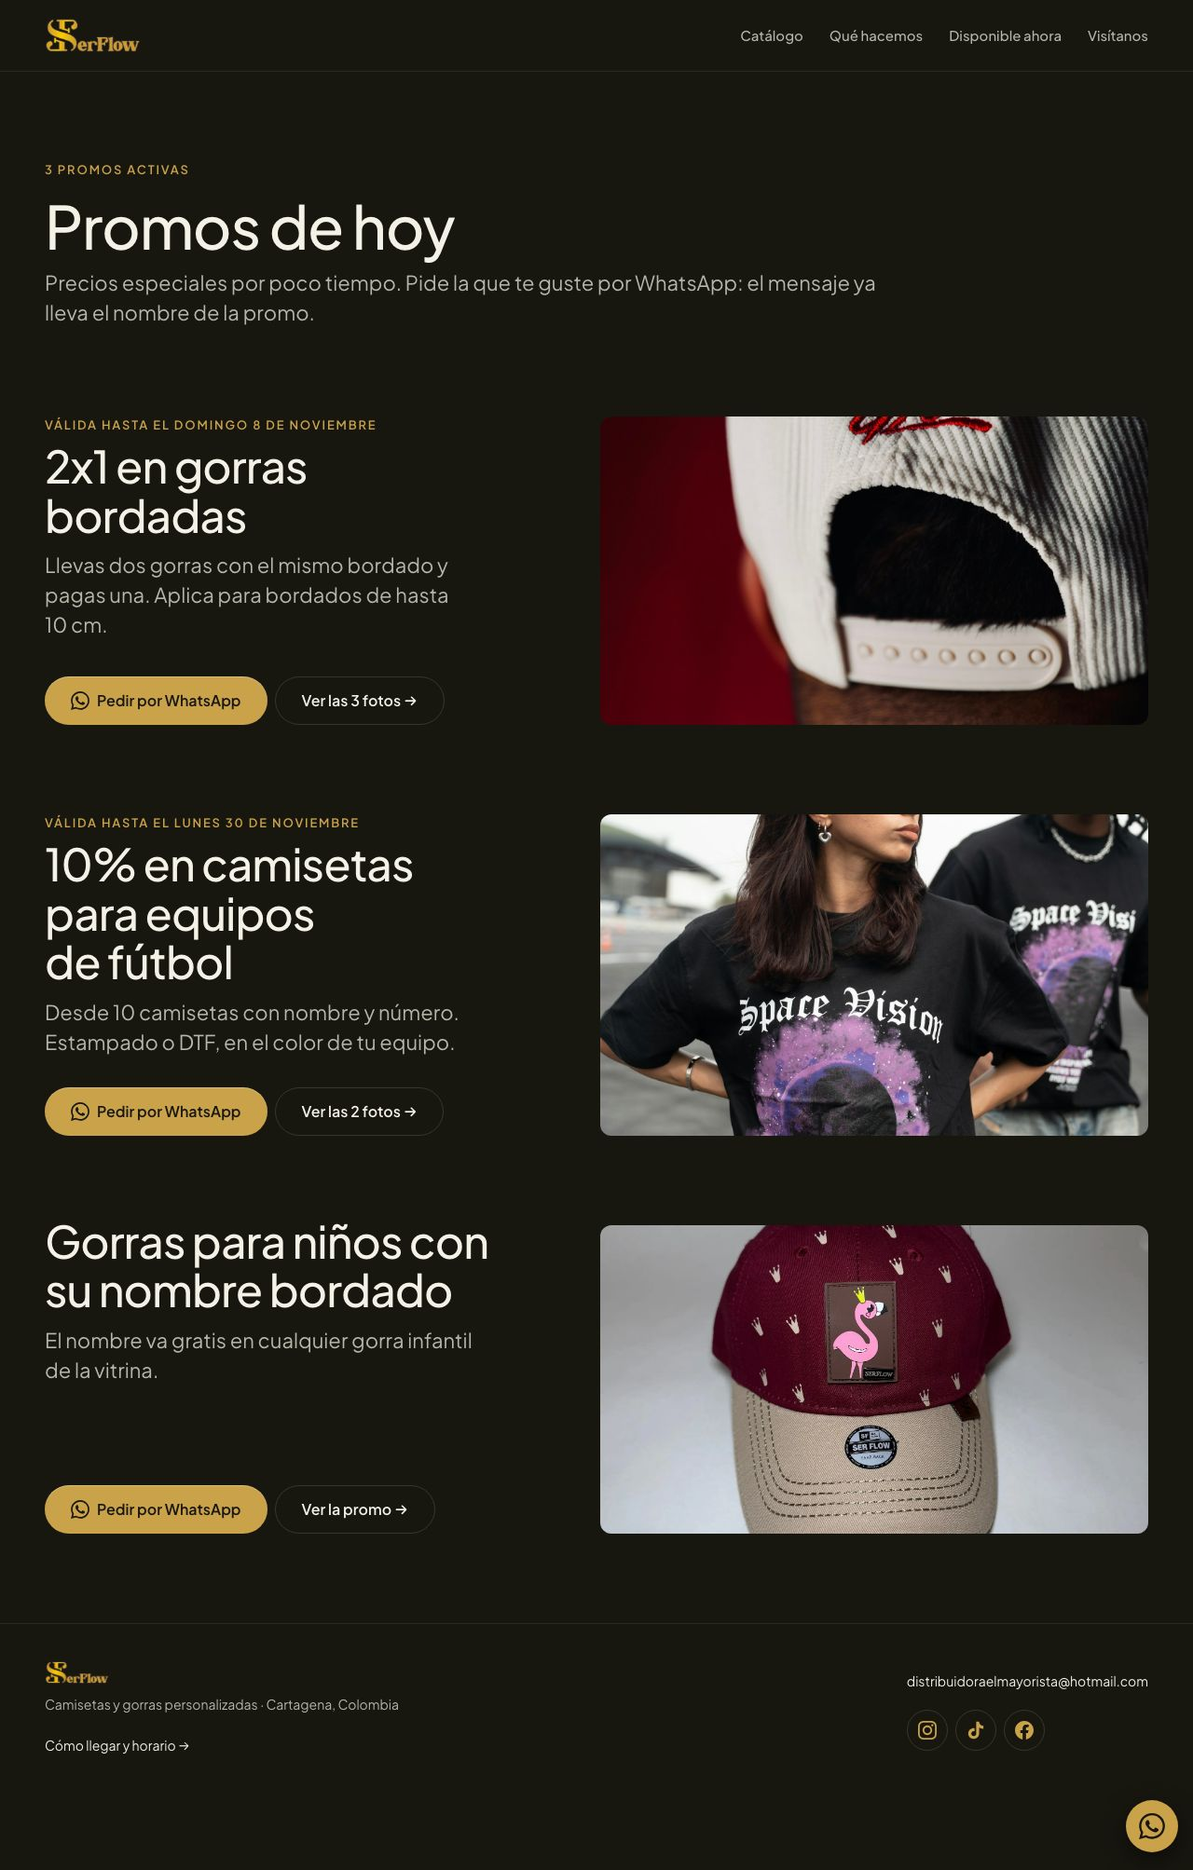
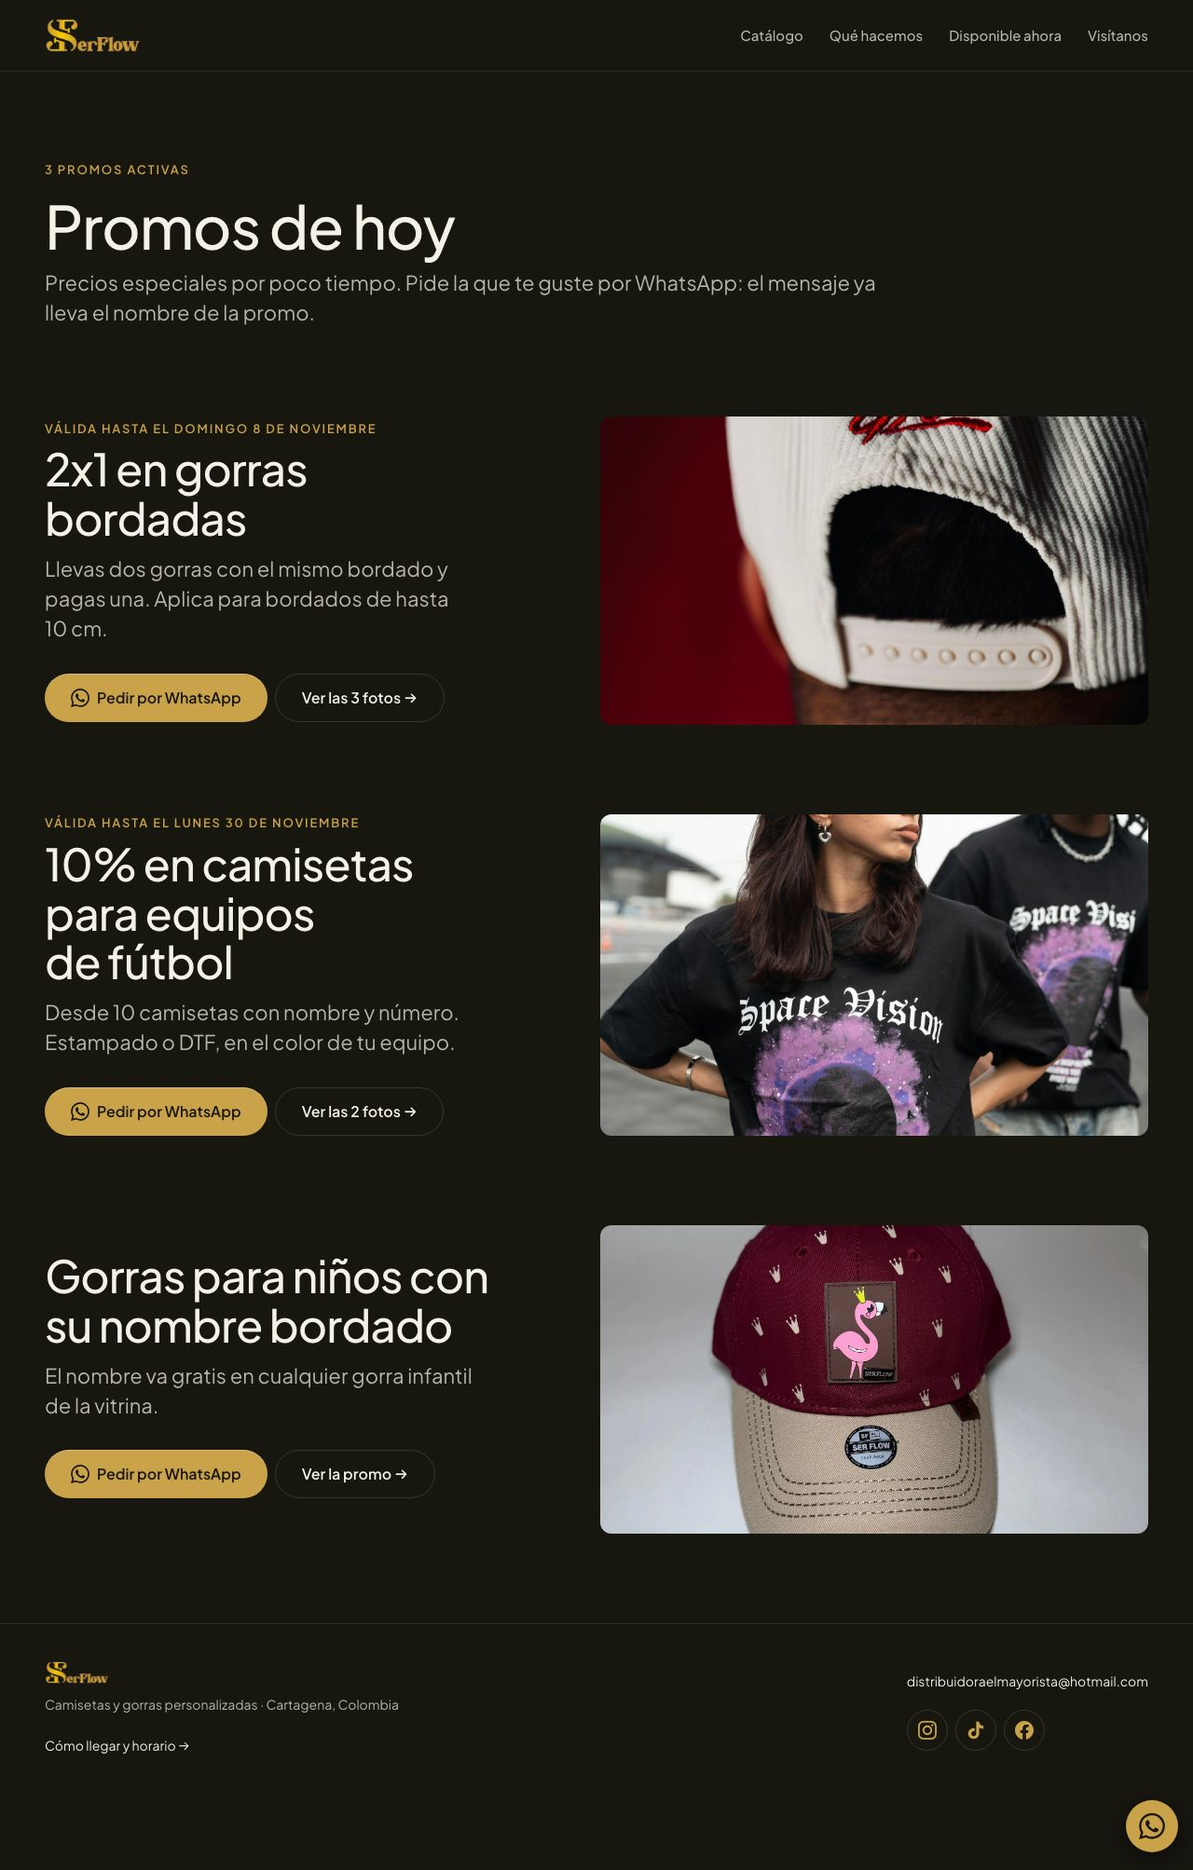
fix: PRI-286 viewer photo in a full-width band with the panel in one row below, one closing card component at every width, promo text centered on its photo, other promos titles on one line

diff --git a/tempo/designs/canvases/portada-final/pantallas.css b/tempo/designs/canvases/portada-final/pantallas.css
@@ -24,45 +24,55 @@
   .pf .pf-cat-texto > p { max-width: 34ch; }
 }
 
-/* Tarjeta de cierre: ocupa las celdas que faltan en la última fila; texto abajo a la izquierda, como el del hero.
-   Al construir: li:last-child con grid-column: span (columnas - n % columnas), con :nth-child por cada ancho. */
+/* Tarjeta de cierre: ocupa las celdas que faltan en la última fila (si está llena, una fila entera). Un solo
+   componente: mismo título, bajada y botón, y en cada ancho de pantalla las mismas medidas en 1, 2 o más celdas; solo
+   cambia el ancho de la caja. El bloque va centrado en vertical con el aire repartido arriba y abajo. Las medidas de
+   letra siguen al muro (contenedor "muro": 2 columnas en celular, 3 desde 40rem, 4 desde 64rem, los cortes del muro);
+   el ícono del botón sigue a la caja (contenedor "cierre").
+   Al construir: li:last-child con grid-column: span (columnas - n % columnas, o todas), con :nth-child por cada ancho. */
+.pf-cat-muro ul.columns-2 { container: muro / inline-size; }
 .pf-cierre { display: flex; }
 .pf-cierre > div {
-  container-type: inline-size;
+  container: cierre / inline-size;
   flex: 1;
   display: flex;
   flex-direction: column;
-  justify-content: flex-end;
+  justify-content: center;
   align-items: flex-start;
-  padding: 16px;
+  padding: var(--pf-td);
   border: 1px solid var(--color-line);
   border-radius: var(--radius-tile);
   background: var(--color-surface);
 }
 .pf .pf-cierre h2 { font-family: var(--font-display); font-weight: 500; font-size: var(--pf-h3); line-height: 1.15; letter-spacing: -0.02em; text-wrap: balance; }
-.pf .pf-cierre p { display: none; margin-top: var(--pf-td); font-size: var(--pf-body); line-height: 1.5; color: var(--color-muted); max-width: 34ch; }
-.pf .pf-cierre a { margin-top: 16px; padding-inline: 16px; }
-.pf .pf-cierre a svg { flex-shrink: 0; }
-/* En una sola celda: solo título y botón, y el botón dice "Escríbenos" (el resto queda para el lector de pantalla). */
-@container (max-width: 19.99rem) {
-  .pf .pf-cierre a { width: 100%; }
-  .pf-cierre-largo { position: absolute; width: 1px; height: 1px; overflow: hidden; clip-path: inset(50%); white-space: nowrap; }
+.pf .pf-cierre p { margin-top: var(--pf-g); font-size: 14px; line-height: 1.4; color: var(--color-muted); max-width: 34ch; text-wrap: pretty; }
+/* El botón (el de la marca: 16 semibold) nunca se sale de la caja: 12 a los lados y, si no cabe en una línea, parte
+   en dos ("Escríbenos por / WhatsApp"). El ícono va cuando el interior de la caja mide 15.75rem (252) o más (cabe el botón entero en una
+   línea). PUENTE: Button no deja partir el texto; al construir, una prop o variante para esto (Design System Debt). */
+.sf-r3 .pf .pf-cierre a.inline-flex.rounded-full.font-body { max-width: 100%; margin-top: var(--pf-td); padding: var(--pf-g) var(--pf-td); line-height: 1.2; text-align: center; text-wrap: balance; }
+.pf .pf-cierre a svg { display: none; flex-shrink: 0; }
+@container cierre (min-width: 15.75rem) {
+  .pf .pf-cierre a svg { display: block; }
 }
-/* Dos celdas o más: la bajada aparece y el título sube a la escala de h2 (48 / 34). */
-@container (min-width: 30rem) {
-  .pf-cierre > div { padding: 32px; }
-  .pf .pf-cierre h2 { font-size: var(--pf-h2); }
-  .pf .pf-cierre p { display: block; max-width: 44ch; }
-  .pf .pf-cierre a { margin-top: 24px; padding-inline: 24px; }
+@container muro (min-width: 40rem) {
+  .pf-cierre > div { padding: 16px; }
+  .pf .pf-cierre p { margin-top: var(--pf-td); font-size: var(--pf-body); line-height: 1.5; }
+  .sf-r3 .pf .pf-cierre a.inline-flex.rounded-full.font-body { margin-top: var(--pf-tc); }
+}
+/* Desktop: el título con la escala de h2 (48) para que la caja de una celda se vea llena. */
+@container muro (min-width: 64rem) {
+  .pf .pf-cierre h2 { font-size: var(--pf-h2); line-height: 1.05; }
 }
 
-/* ---------- 2. Visor: Todas las fotos en su fila; foto en 6 columnas y panel en 5 desde la 8, pegado al borde de abajo ---------- */
+/* ---------- 2. Visor: Todas las fotos en su fila; en desktop la foto en una banda a todo el ancho y el panel en una fila debajo ---------- */
 
 .pf-visor-volver { display: inline-flex; min-height: 48px; align-items: center; gap: 6px; margin-left: -6px; font-size: 14px; font-weight: 600; color: var(--color-muted); }
 .pf-visor-volver:hover { color: var(--color-ink); }
 .pf-visor-volver:focus-visible, .pf-visor-cat:focus-visible { outline: 2px solid var(--color-accent); outline-offset: 2px; }
 /* En el celular la foto va a sangre (4:5) debajo de Todas las fotos; el panel, en el margen. */
 .pf-visor-panel { display: flex; flex-direction: column; align-items: flex-start; padding: var(--pf-tc) var(--pf-m) 0; }
+.pf-visor-nombre { display: flex; flex-direction: column; align-items: flex-start; }
+.pf-visor-pedir { width: 100%; }
 /* La categoría con la etiqueta del sistema (13 mayúsculas, oro), como link: el nombre ya la dice, no hace falta otro botón. */
 .pf-visor-cat { display: inline-flex; min-height: 44px; align-items: center; margin-top: -14px; }
 .pf-visor-cat:hover { text-decoration: underline; text-underline-offset: 4px; }
@@ -70,15 +80,33 @@
 .pf .pf-visor-nota { margin-top: 12px; font-size: var(--pf-body); line-height: 1.5; color: var(--color-muted); max-width: 40ch; text-wrap: balance; }
 .pf-mas-accion { margin-top: var(--pf-tc); }
 @container pf (min-width: 48rem) {
-  .pf-visor { display: grid; grid-template-columns: repeat(12, minmax(0, 1fr)); column-gap: var(--pf-g); padding: 0 var(--pf-m); }
-  .pf-visor-foto { grid-column: 1 / span 6; }
-  /* 1:1 en desktop (como Qué hacemos): la gorra sigue entera y Pedir por WhatsApp queda arriba del pliegue de 800. */
-  .pf .pf-visor-foto ul { border-radius: var(--radius-tile); }
+  .pf-visor { padding: 0 var(--pf-m); }
+  /* La foto en una banda de 16:7 a todo el ancho de la rejilla (1184 x 518): la foto va al centro en 1:1 (como Qué
+     hacemos, la gorra entera) y a los lados se estira su propia columna de borde (--foto), así el fondo de estudio
+     sigue de lado a lado. Con 518 de alto, Pedir por WhatsApp queda arriba del pliegue de 800. */
+  .pf-visor-foto { position: relative; overflow: hidden; aspect-ratio: 16 / 7; border-radius: var(--radius-tile); background: var(--color-surface-2); }
+  /* Los lados se difuminan y la foto se funde con ellos en el 22 % de cada borde: no se ve la costura. */
+  .pf-visor-foto::before, .pf-visor-foto::after {
+    content: "";
+    position: absolute;
+    inset-block: -32px;
+    width: calc(38% + 32px);
+    background: var(--foto) no-repeat;
+    background-size: 40000% calc((100% - 64px) * 1.3334);
+    filter: blur(24px);
+  }
+  .pf-visor-foto::before { left: -32px; background-position: left center; }
+  .pf-visor-foto::after { right: -32px; background-position: right center; }
+  .pf .pf-visor-foto ul { position: relative; z-index: 1; width: 43.75%; margin-inline: auto; border-radius: 0; mask-image: linear-gradient(to right, transparent, black 22%, black 78%, transparent); }
   .pf .pf-visor-foto li { aspect-ratio: 1 / 1; }
-  /* Una foto: el panel se compacta y se pega al borde de abajo de la foto, como el texto del hero sobre la suya. */
-  .pf-visor-panel { grid-column: 8 / -1; justify-content: flex-end; padding: 0; }
-  .pf-visor-boton { width: auto; }
+  /* El panel en una fila de la rejilla debajo de la foto: categoría y nombre en 7 columnas, el botón y su nota en 5
+     desde la 8. Las dos columnas tienen el mismo alto y cierran juntas abajo: no queda caja vacía. */
+  .pf-visor-panel { display: grid; grid-template-columns: repeat(12, minmax(0, 1fr)); column-gap: var(--pf-g); align-items: end; padding: var(--pf-tc) 0 0; }
+  .pf-visor-nombre { grid-column: 1 / span 7; }
+  .pf-visor-pedir { grid-column: 8 / -1; }
+  .pf-visor-boton { width: auto; margin-top: 0; }
   .pf .pf-visor-nota { text-box: trim-end cap alphabetic; }
+  .pf .pf-visor-nombre h1 { text-box: trim-end alphabetic; }
 }
 
 /* ---------- Título de página interior (promos, 404, personalizador): el aire de una sección arriba ---------- */
@@ -102,9 +130,9 @@
 .pf-promo-foto { order: -1; position: relative; overflow: hidden; aspect-ratio: 4 / 3; margin-bottom: var(--pf-tc); border-radius: var(--radius-tile); background: var(--color-surface-2); }
 .pf-promo-foto img { position: absolute; inset: 0; width: 100%; height: 100%; object-fit: cover; }
 @container pf (min-width: 48rem) {
-  /* Fotos parejas de 16:9 (588 x 331) en las tres promos; si el texto es más alto, la foto crece con él. Mismo borde
-     arriba y abajo: el texto arriba y los botones pegados al borde de abajo de la foto. */
-  .pf-promo-texto { grid-column: 1 / span 5; grid-row: 1; justify-content: space-between; }
+  /* Fotos parejas de 16:9 (588 x 331) en las tres promos; si el texto es más alto, la foto crece con él. Los botones
+     van pegados a la bajada (32, el mismo aire en las tres) y el bloque de texto se centra en vertical con la foto. */
+  .pf-promo-texto { grid-column: 1 / span 5; grid-row: 1; justify-content: center; }
   .pf-promo-foto { order: 0; grid-column: 7 / -1; grid-row: 1; aspect-ratio: auto; min-height: 331px; margin: 0; }
   .pf-promo-botones { flex-direction: row; }
 }
@@ -138,16 +166,21 @@
 .sf-r3 .pf .pf-promo-tarjetas a > div > div.flex-1.p-4:last-child { padding: 0; gap: 0; justify-content: flex-start; }
 /* En el celular, sin la descripción: cortada a dos líneas quedaba a medio decir y más alta que la miniatura. */
 .sf-r3 .pf .pf-promo-tarjetas p { display: none; }
-.pf .pf-promo-tarjetas a > div > div:last-child > span:first-child { padding: 0; background: none; font-size: var(--pf-pie); font-weight: 600; letter-spacing: 0.14em; text-transform: uppercase; color: var(--color-accent); }
+/* La vigencia en una línea de alto fijo (16) y 8 hasta el título. Si la promo no tiene fecha, el título baja esos
+   mismos 24: los títulos de todas las tarjetas quedan en la misma línea. Al construir: PromoCard reserva la línea de
+   vigencia vacía (min-height) en vez de este margen. */
+.pf .pf-promo-tarjetas a > div > div:last-child > span:first-child { display: block; padding: 0; background: none; font-size: var(--pf-pie); font-weight: 600; line-height: 16px; letter-spacing: 0.14em; text-transform: uppercase; color: var(--color-accent); }
 .pf .pf-promo-tarjetas a > div > div:last-child > span:first-child > span { display: none; }
 .sf-r3 .pf .pf-promo-tarjetas h3 { margin-top: 8px; font-size: var(--pf-h3); font-weight: 500; line-height: 1.25; }
-.pf-promo-tarjetas a > div > div:last-child > span:first-child + h3 { margin-top: 8px; }
+.sf-r3 .pf .pf-promo-tarjetas a.group.rounded-card div.flex-1 > h3.font-display:first-child { margin-top: 24px; }
 .sf-r3 .pf .pf-promo-tarjetas p { margin-top: 6px; font-size: var(--pf-body); line-height: 1.5; color: var(--color-muted); }
-.sf-r3 .pf .pf-promo-tarjetas a > div > div:last-child > span:last-child { margin-top: 8px; padding: 0; }
+/* Ver promo al fondo de la tarjeta: en una fila todas cierran a la misma altura aunque la bajada sea más corta. */
+.sf-r3 .pf .pf-promo-tarjetas a > div > div:last-child > span:last-child { margin-top: auto; padding: 8px 0 0; }
 @container pf (min-width: 48rem) {
   .pf-promo-tarjetas { grid-template-columns: repeat(var(--n), minmax(0, 1fr)); gap: var(--pf-g); }
   .sf-r3 .pf .pf-promo-tarjetas a > div { display: flex; flex-direction: column; }
   .sf-r3 .pf .pf-promo-tarjetas a img { aspect-ratio: 4 / 3; }
-  .sf-r3 .pf .pf-promo-tarjetas p { display: block; max-width: 52ch; }
+  /* 44ch: entre la bajada de una tarjeta y la de la siguiente queda aire, no solo la calle de 8. */
+  .sf-r3 .pf .pf-promo-tarjetas p { display: block; max-width: 44ch; }
   .sf-r3 .pf .pf-promo-tarjetas a > div > div.flex-1.p-4:last-child { padding: 16px 0 0; }
 }

diff --git a/tempo/designs/canvases/portada-final/Pantallas.tsx b/tempo/designs/canvases/portada-final/Pantallas.tsx
@@ -62,9 +62,10 @@ const CATEGORIAS = {
 /* ---------- 1. Catálogo, categoría ---------- */
 
 /**
- * PROPUESTA: la tarjeta que cierra la última fila del muro. Solo texto y botón, sin foto; ocupa todas las celdas que
- * faltan. Al construir es el último <li> de la lista de Masonry en CatalogPage y su ancho sale de :nth-child (ver
- * pantallas.css); aquí se calcula con el ancho del frame y se agrega con un portal para no tocar src/.
+ * PROPUESTA: la tarjeta que cierra la última fila del muro. Un solo componente con el mismo texto en todos los anchos
+ * (título, bajada y botón); solo cambia cuántas celdas ocupa: las que faltan en la última fila. Al construir es el
+ * último <li> de la lista de Masonry en CatalogPage y su ancho sale de :nth-child (ver pantallas.css); aquí se mide
+ * con las columnas reales del muro y se agrega con un portal para no tocar src/.
  */
 function Cierre({ faltan }: { faltan: number }) {
   return (
@@ -73,19 +74,29 @@ function Cierre({ faltan }: { faltan: number }) {
         <h2>¿No ves la que buscas?</h2>
         <p>Igual te lo hacemos por encargo, con tu logo o tu diseño.</p>
         <Button variant="whatsapp" href={WHATSAPP_URL} external>
-          <span>
-            Escríbenos<span className="pf-cierre-largo"> por WhatsApp</span>
-          </span>
+          Escríbenos por WhatsApp
         </Button>
       </div>
     </li>
   );
 }
 
-function ConCierre({ faltan, children }: { faltan: number; children: ReactNode }) {
+function ConCierre({ fotos, children }: { fotos: number; children: ReactNode }) {
   const caja = useRef<HTMLDivElement>(null);
-  const [muro, setMuro] = useState<Element | null>(null);
-  useLayoutEffect(() => setMuro(caja.current?.querySelector("ul.columns-2") ?? null), []);
+  const [muro, setMuro] = useState<HTMLElement | null>(null);
+  const [columnas, setColumnas] = useState(0);
+  useLayoutEffect(() => {
+    const ul = caja.current?.querySelector<HTMLElement>("ul.columns-2");
+    if (!ul) return;
+    setMuro(ul);
+    const medir = () => setColumnas(getComputedStyle(ul).gridTemplateColumns.split(" ").length);
+    medir();
+    const ro = new ResizeObserver(medir);
+    ro.observe(ul);
+    return () => ro.disconnect();
+  }, []);
+  // Si la última fila está llena, la tarjeta ocupa una fila entera: pedir por encargo está en todas las categorías.
+  const faltan = columnas ? (columnas - (fotos % columnas)) % columnas || columnas : 0;
   return (
     <div ref={caja}>
       {children}
@@ -96,8 +107,6 @@ function ConCierre({ faltan, children }: { faltan: number; children: ReactNode }
 
 export function Catalogo({ width, cat }: { width: W; cat: keyof typeof CATEGORIAS }) {
   const c = CATEGORIAS[cat];
-  const columnas = width === 1280 ? 4 : 2;
-  const faltan = (columnas - (c.tiles.length % columnas)) % columnas;
   return (
     <Marco width={width} nuevo current="/products">
       <div className="pf font-body text-ink">
@@ -115,7 +124,7 @@ export function Catalogo({ width, cat }: { width: W; cat: keyof typeof CATEGORIA
             <CategoryNav categories={CHIPS} current={`/products/${c.slug}`} />
           </div>
           <div className="pf-c pf-cat-muro">
-            <ConCierre faltan={faltan}>
+            <ConCierre fotos={c.tiles.length}>
               <Masonry tiles={c.tiles} />
             </ConCierre>
           </div>
@@ -129,12 +138,11 @@ export function Catalogo({ width, cat }: { width: W; cat: keyof typeof CATEGORIA
 
 /*
  * Hoy ningún producto activo tiene más de una foto (Supabase, 2026-11-02: 0 de 92), así que no hay "Otras vistas":
- * PhotoThumbs no se pinta con una foto. El panel lleva lo que hay en master: la categoría (como etiqueta-link, no como
- * segundo botón), el nombre, Pedir por WhatsApp y su nota. Sin N.º ni "hace", sin Nuevo.
+ * PhotoThumbs no se pinta con una foto y el visor es un solo frame. El panel lleva lo que hay en master: la categoría
+ * (como etiqueta-link, no como segundo botón), el nombre, Pedir por WhatsApp y su nota. Sin N.º ni "hace", sin Nuevo.
  */
 const PRODUCTOS = {
   beisbol: { nombre: "Beisbol #49", cat: CATEGORIAS.beisbol, count: 23 },
-  ninos: { nombre: "Niños #91", cat: { label: "Niños", slug: "kids", tiles: tiles("Niños", "kids", fotos(import.meta.glob<string>("../../../../src/assets/images/kids/*.webp", { eager: true, import: "default" })), 91) }, count: 10 },
 };
 
 export function Visor({ width, producto }: { width: W; producto: keyof typeof PRODUCTOS }) {
@@ -163,20 +171,26 @@ export function Visor({ width, producto }: { width: W; producto: keyof typeof PR
         <main className="pf-v">
           <div className="pf-c">{volver}</div>
           <div className="pf-visor">
-            <div className="pf-visor-foto">
+            {/* PROPUESTA (desktop): la foto en una banda a todo el ancho; los lados repiten el borde de la misma foto
+                (--foto), así el fondo de estudio sigue de lado a lado sin recortar la gorra. */}
+            <div className="pf-visor-foto" style={{ "--foto": `url("${foto.img.src}")` } as React.CSSProperties}>
               <PhotoCarousel photos={[{ src: foto.img.src, alt: foto.img.alt }]} label={`Fotos de ${p.nombre}`} />
             </div>
             <div className="pf-visor-panel">
-              <a href={href} className="pf-pie pf-visor-cat">
-                {p.cat.label}
-              </a>
-              <h1 className="pf-display">{p.nombre}</h1>
-              <div className="pf-visor-boton">
-                <Button variant="whatsapp" href={WHATSAPP_URL} external fullWidth={!desktop}>
-                  Pedir por WhatsApp
-                </Button>
+              <div className="pf-visor-nombre">
+                <a href={href} className="pf-pie pf-visor-cat">
+                  {p.cat.label}
+                </a>
+                <h1 className="pf-display">{p.nombre}</h1>
               </div>
-              <p className="pf-visor-nota">Se abre WhatsApp con el link de esta foto. Te la hacemos igual o con tu logo.</p>
+              <div className="pf-visor-pedir">
+                <div className="pf-visor-boton">
+                  <Button variant="whatsapp" href={WHATSAPP_URL} external fullWidth={!desktop}>
+                    Pedir por WhatsApp
+                  </Button>
+                </div>
+                <p className="pf-visor-nota">Se abre WhatsApp con el link de esta foto. Te la hacemos igual o con tu logo.</p>
+              </div>
             </div>
           </div>
           <section id="mas-de" aria-labelledby="mas-de-titulo" className="pf-sec pf-c">
@@ -192,8 +206,6 @@ export function Visor({ width, producto }: { width: W; producto: keyof typeof PR
 
 export const VisorMobile = () => <Visor width={390} producto="beisbol" />;
 export const VisorDesktop = () => <Visor width={1280} producto="beisbol" />;
-export const VisorUnaFotoMobile = () => <Visor width={390} producto="ninos" />;
-export const VisorUnaFotoDesktop = () => <Visor width={1280} producto="ninos" />;
 
 /* ---------- 3. Promos: lista y detalle ---------- */
 

diff --git a/tempo/designs/canvases/portada-final/index.canvas.tsx b/tempo/designs/canvases/portada-final/index.canvas.tsx
@@ -8,8 +8,6 @@ import {
   CatalogoMobile,
   VisorDesktop,
   VisorMobile,
-  VisorUnaFotoDesktop,
-  VisorUnaFotoMobile,
   PromosMobile,
   PromosDesktop,
   PromoDetalleMobile,
@@ -29,8 +27,6 @@ export default function PortadaFinalCanvas() {
       <Storyboard id="Catalogo10Desktop" name="Catálogo · Basketball (10) · 1280" component={Catalogo10Desktop} layout={{ x: 3700, y: 5000 }} />
       <Storyboard id="VisorMobile" name="Visor · Beisbol #49 · 390" component={VisorMobile} layout={{ x: 5080, y: 0 }} />
       <Storyboard id="VisorDesktop" name="Visor · Beisbol #49 · 1280" component={VisorDesktop} layout={{ x: 5570, y: 0 }} />
-      <Storyboard id="VisorUnaFotoMobile" name="Visor · una foto, categoría chica (Niños #91) · 390" component={VisorUnaFotoMobile} layout={{ x: 5080, y: 5000 }} />
-      <Storyboard id="VisorUnaFotoDesktop" name="Visor · una foto, categoría chica (Niños #91) · 1280" component={VisorUnaFotoDesktop} layout={{ x: 5570, y: 5000 }} />
       <Storyboard id="PromosMobile" name="Promos · lista · 390" component={PromosMobile} layout={{ x: 6950, y: 0 }} />
       <Storyboard id="PromosDesktop" name="Promos · lista · 1280" component={PromosDesktop} layout={{ x: 7440, y: 0 }} />
       <Storyboard id="PromoDetalleMobile" name="Promos · detalle · 390" component={PromoDetalleMobile} layout={{ x: 6950, y: 5000 }} />
